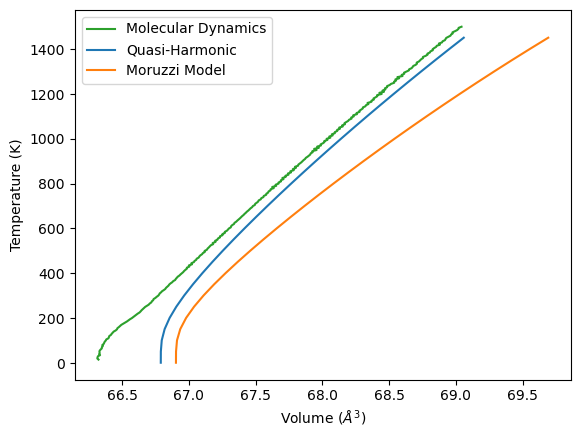
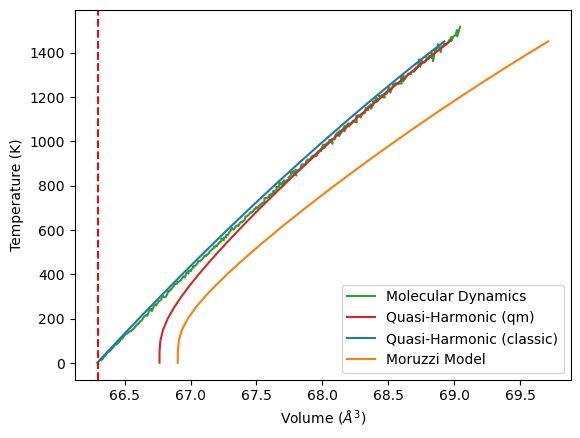
Add classical harmonic oscillator to quasi-harmonic approximation

diff --git a/atomistics/workflows/quasiharmonic/workflow.py b/atomistics/workflows/quasiharmonic/workflow.py
@@ -5,7 +5,11 @@ from atomistics.workflows.evcurve.workflow import (
     fit_ev_curve,
 )
 from atomistics.workflows.phonons.workflow import PhonopyWorkflow
-from atomistics.workflows.phonons.units import VaspToTHz
+from atomistics.workflows.phonons.units import VaspToTHz, kJ_mol_to_eV, THzToEv, kb, EvTokJmol
+
+
+def get_free_energy(frequency, temperature):
+    return kb * temperature * np.log(frequency / (kb * temperature))
 
 
 class QuasiHarmonicWorkflow(EnergyVolumeCurveWorkflow):
@@ -116,6 +120,36 @@ class QuasiHarmonicWorkflow(EnergyVolumeCurveWorkflow):
             )
         return tp_collect_dict
 
+    def get_thermal_properties_classical(
+        self,
+        t_min=1,
+        t_max=1500,
+        t_step=50,
+        temperatures=None,
+        cutoff_frequency=None,
+    ):
+        if temperatures is None:
+            temperatures = np.arange(t_min, t_max, t_step)
+        if cutoff_frequency is None or cutoff_frequency < 0:
+            cutoff_frequency = 0.0
+        else:
+            cutoff_frequency = cutoff_frequency * THzToEv
+        tp_collect_dict = {}
+        for strain, phono in self._phonopy_dict.items():
+            t_property_lst = []
+            for t in temperatures:
+                t_property = 0.0
+                for freqs, w in zip(phono.phonopy.mesh.frequencies, phono.phonopy.mesh.weights):
+                    freqs = np.array(freqs) * THzToEv
+                    cond = freqs > cutoff_frequency
+                    t_property += np.sum(get_free_energy(frequency=freqs[cond], temperature=t)) * w
+                t_property_lst.append(t_property / np.sum(phono.phonopy.mesh.weights) * EvTokJmol)
+            tp_collect_dict[strain] = {
+                "temperatures": temperatures,
+                "free_energy": np.array(t_property_lst) * kJ_mol_to_eV,
+            }
+        return tp_collect_dict
+
     def get_thermal_expansion(
         self,
         output_dict,
@@ -127,22 +161,39 @@ class QuasiHarmonicWorkflow(EnergyVolumeCurveWorkflow):
         pretend_real=False,
         band_indices=None,
         is_projection=False,
+        quantum_mechanical=True,
     ):
         (
             eng_internal_dict,
             mesh_collect_dict,
             dos_collect_dict,
         ) = self.analyse_structures(output_dict=output_dict)
-        tp_collect_dict = self.get_thermal_properties(
-            t_min=t_min,
-            t_max=t_max,
-            t_step=t_step,
-            temperatures=temperatures,
-            cutoff_frequency=cutoff_frequency,
-            pretend_real=pretend_real,
-            band_indices=band_indices,
-            is_projection=is_projection,
-        )
+        if quantum_mechanical:
+            tp_collect_dict = self.get_thermal_properties(
+                t_min=t_min,
+                t_max=t_max,
+                t_step=t_step,
+                temperatures=temperatures,
+                cutoff_frequency=cutoff_frequency,
+                pretend_real=pretend_real,
+                band_indices=band_indices,
+                is_projection=is_projection,
+            )
+        else:
+            if is_projection:
+                raise ValueError("is_projection!=False is incompatible to quantum_mechanical=False.")
+            if pretend_real:
+                raise ValueError("pretend_real!=False is incompatible to quantum_mechanical=False.")
+            if band_indices is not None:
+                raise ValueError("band_indices!=None is incompatible to quantum_mechanical=False.")
+
+            tp_collect_dict = self.get_thermal_properties_classical(
+                t_min=t_min,
+                t_max=t_max,
+                t_step=t_step,
+                temperatures=temperatures,
+                cutoff_frequency=cutoff_frequency,
+            )
 
         temperatures = tp_collect_dict[1.0]["temperatures"]
         strain_lst = eng_internal_dict.keys()

diff --git a/atomistics/workflows/phonons/units.py b/atomistics/workflows/phonons/units.py
@@ -1,4 +1,5 @@
 import scipy.constants
-from phonopy.units import VaspToTHz
+from phonopy.units import VaspToTHz, THzToEv, EvTokJmol
 
 kJ_mol_to_eV = 1000 / scipy.constants.Avogadro / scipy.constants.electron_volt
+kb = scipy.constants.physical_constants["Boltzmann constant in eV/K"][0]

diff --git a/docs/source/materialproperties.md b/docs/source/materialproperties.md
@@ -455,12 +455,22 @@ result in 3x108 outputs per cell. Still the structure of the `result_dict` again
 as explained before. Finally, in the third step the individual free energy curves at the different temperatures are 
 fitted to determine the equilibrium volume at the given temperature using the `get_thermal_expansion()` function: 
 ```
-temperatures_qh, volume_qh = workflow_qh.get_thermal_expansion(
+temperatures_qh_qm, volume_qh_qm = workflow_qh.get_thermal_expansion(
     output_dict=result_dict, 
     temperatures=np.arange(1, 1500, 50),
+    quantum_mechanical=True,
 )
 ```
-The optimal volume at the different `temperatures` is stored in the `volume_qh` in analogy to the previous section.
+The optimal volume at the different `temperatures` is stored in the `volume_qh_qm` in analogy to the previous section. 
+Here the extension `_qm` indicates that the quantum-mechanical harmonic oszillator is used. 
+```
+temperatures_qh_cl, volume_qh_cl = workflow_qh.get_thermal_expansion(
+    output_dict=result_dict, 
+    temperatures=np.arange(1, 1500, 50),
+    quantum_mechanical=False,
+)
+```
+For the classical harmonic oszillator the resulting volumes are stored as `volume_qh_cl`. 
 
 ### Molecular Dynamics
 Finally, the third and most commonly used method to determine the volume expansion is using a molecular dynamics 
@@ -501,8 +511,10 @@ is used to plot the temperature over the volume:
 ```
 import matplotlib.pyplot as plt
 plt.plot(np.array(volume_md_lst)/len(structure_md) * len(structure_opt), temperature_md_lst, label="Molecular Dynamics", color="C2")
-plt.plot(volume_qh, temperatures_qh, label="Quasi-Harmonic", color="C0")
+plt.plot(volume_qh_qm, temperatures_qh_qm, label="Quasi-Harmonic (qm)", color="C3")
+plt.plot(volume_qh_cl, temperatures_qh_cl, label="Quasi-Harmonic (classic)", color="C0")
 plt.plot(volume_ev, temperatures_ev, label="Moruzzi Model", color="C1")
+plt.axvline(structure_opt.get_volume(), linestyle="--", color="red")
 plt.legend()
 plt.xlabel("Volume ($\AA^3$)")
 plt.ylabel("Temperature (K)")
@@ -511,9 +523,11 @@ The result is visualized in the following graph:
 
 ![Compare Thermal Expansion](../pictures/thermalexpansion.png)
 
-While the both the [Moruzzi, V. L. et al.](https://link.aps.org/doi/10.1103/PhysRevB.37.790) and the quasi-harmonic 
-approach over-predict the volume expansion with increasing temperature the overall result is in reasonable agreement for
-the Morse Pair Potential. 
+Both the [Moruzzi, V. L. et al.](https://link.aps.org/doi/10.1103/PhysRevB.37.790) and the quantum mechanical version of
+the quasi-harmonic approach start at a larger equilibrium volume as they include the zero point vibrations, resulting in
+an over-prediction of the volume expansion with increasing temperature. The equilibrium volume is indicated by the 
+dashed red line. Finally, the quasi-harmonic approach with the classical harmonic oscillator agrees very well with the 
+thermal expansion calculated from molecular dynamics for this example of using the Morse Pair Potential. 
 
 ## Phase Diagram 
 One of the goals of the `atomistics` package is to be able to calculate phase diagrams with ab-initio precision. Coming 
